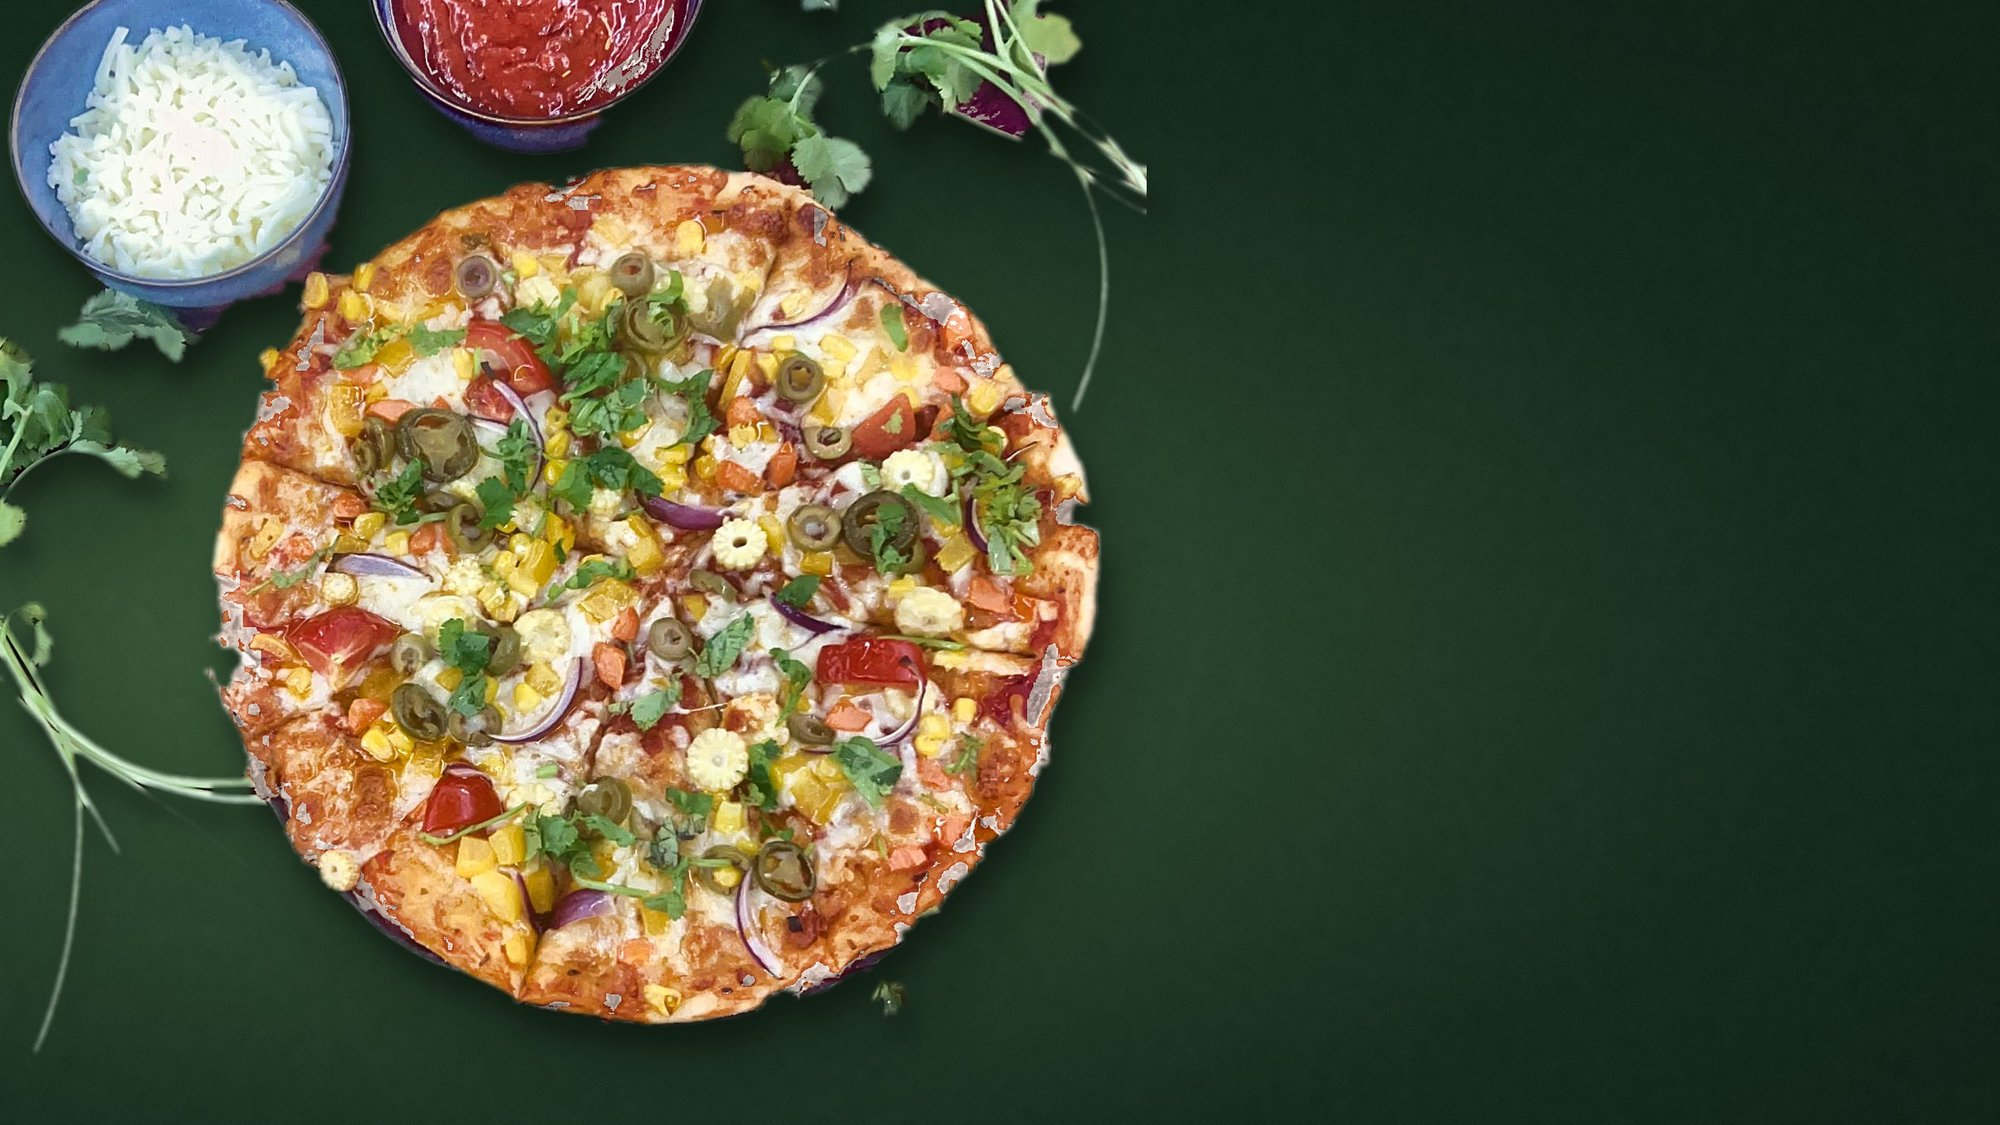
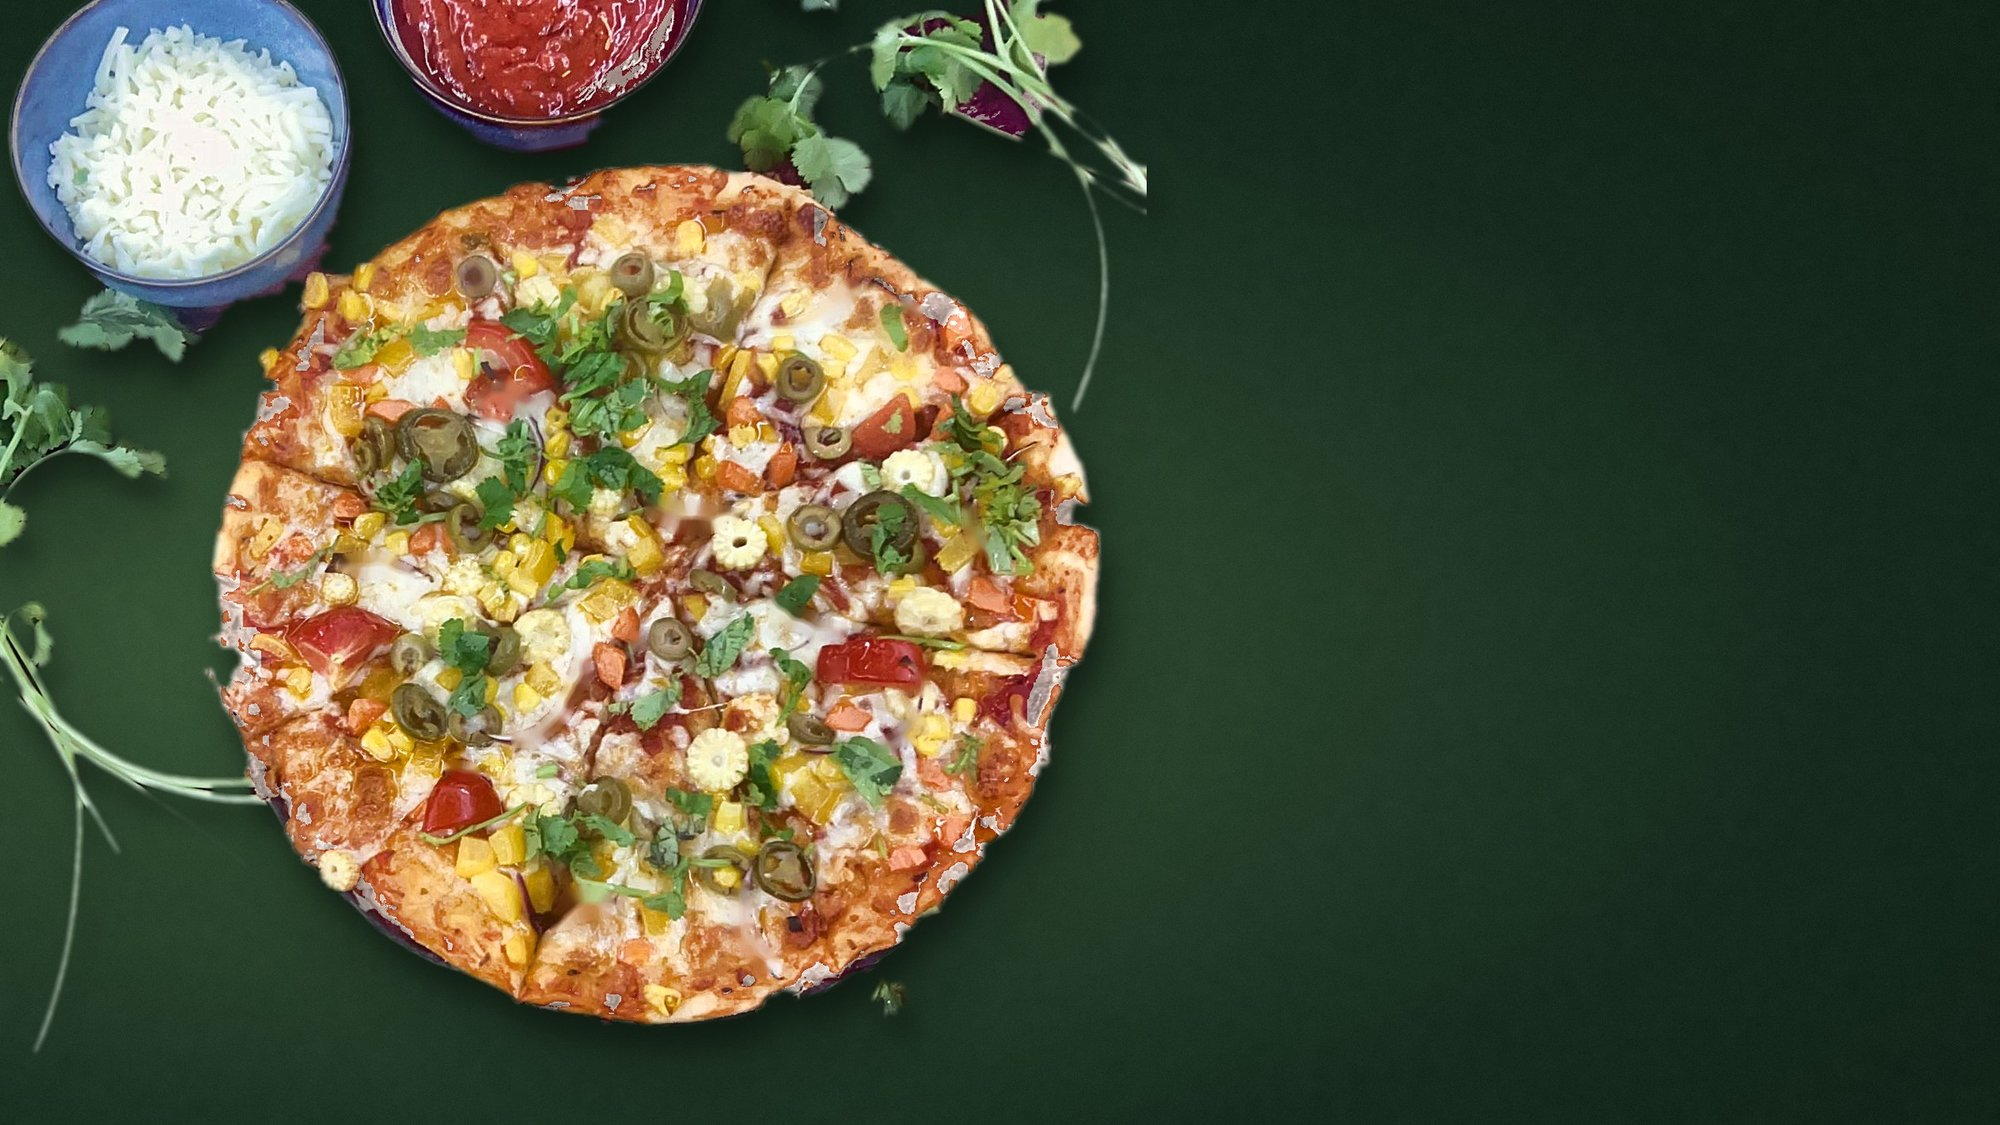
Hero without onion; drop second photo band

diff --git a/src/content/home.md b/src/content/home.md
@@ -36,7 +36,7 @@ hero:
   primaryButton: "Order on WhatsApp"
   secondaryButton: "See the menu"
   image: "/images/hero.jpg"
-  imageAlt: "A Green Leaf pizza with sweetcorn, peppers, olives and jalapeños, with tomato sauce and mozzarella on the side"
+  imageAlt: "A Green Leaf pizza topped with sweetcorn, peppers, olives, jalapeños and fresh coriander, with tomato sauce and mozzarella on the side"
 
 # The moving strip under the hero
 ticker: ["100% eggless", "Mushroom-free", "Dedicated Jain range", "Vegan options", "Hand-made in Harrow", "Nothing missing"]
@@ -150,11 +150,6 @@ story:
   eyebrow: "Our story"
   title: "Two years in a Harrow kitchen."
   quote: "Nothing taken away from the taste. Nobody left out of the table."
-
-table:
-  image: "/images/table.jpg"
-  imageAlt: "A Green Leaf pizza topped with sweetcorn, peppers, olives, jalapeños and fresh coriander"
-  line: "Pizza night, the whole family in."
 
 quality:
   eyebrow: "Our ingredients"
